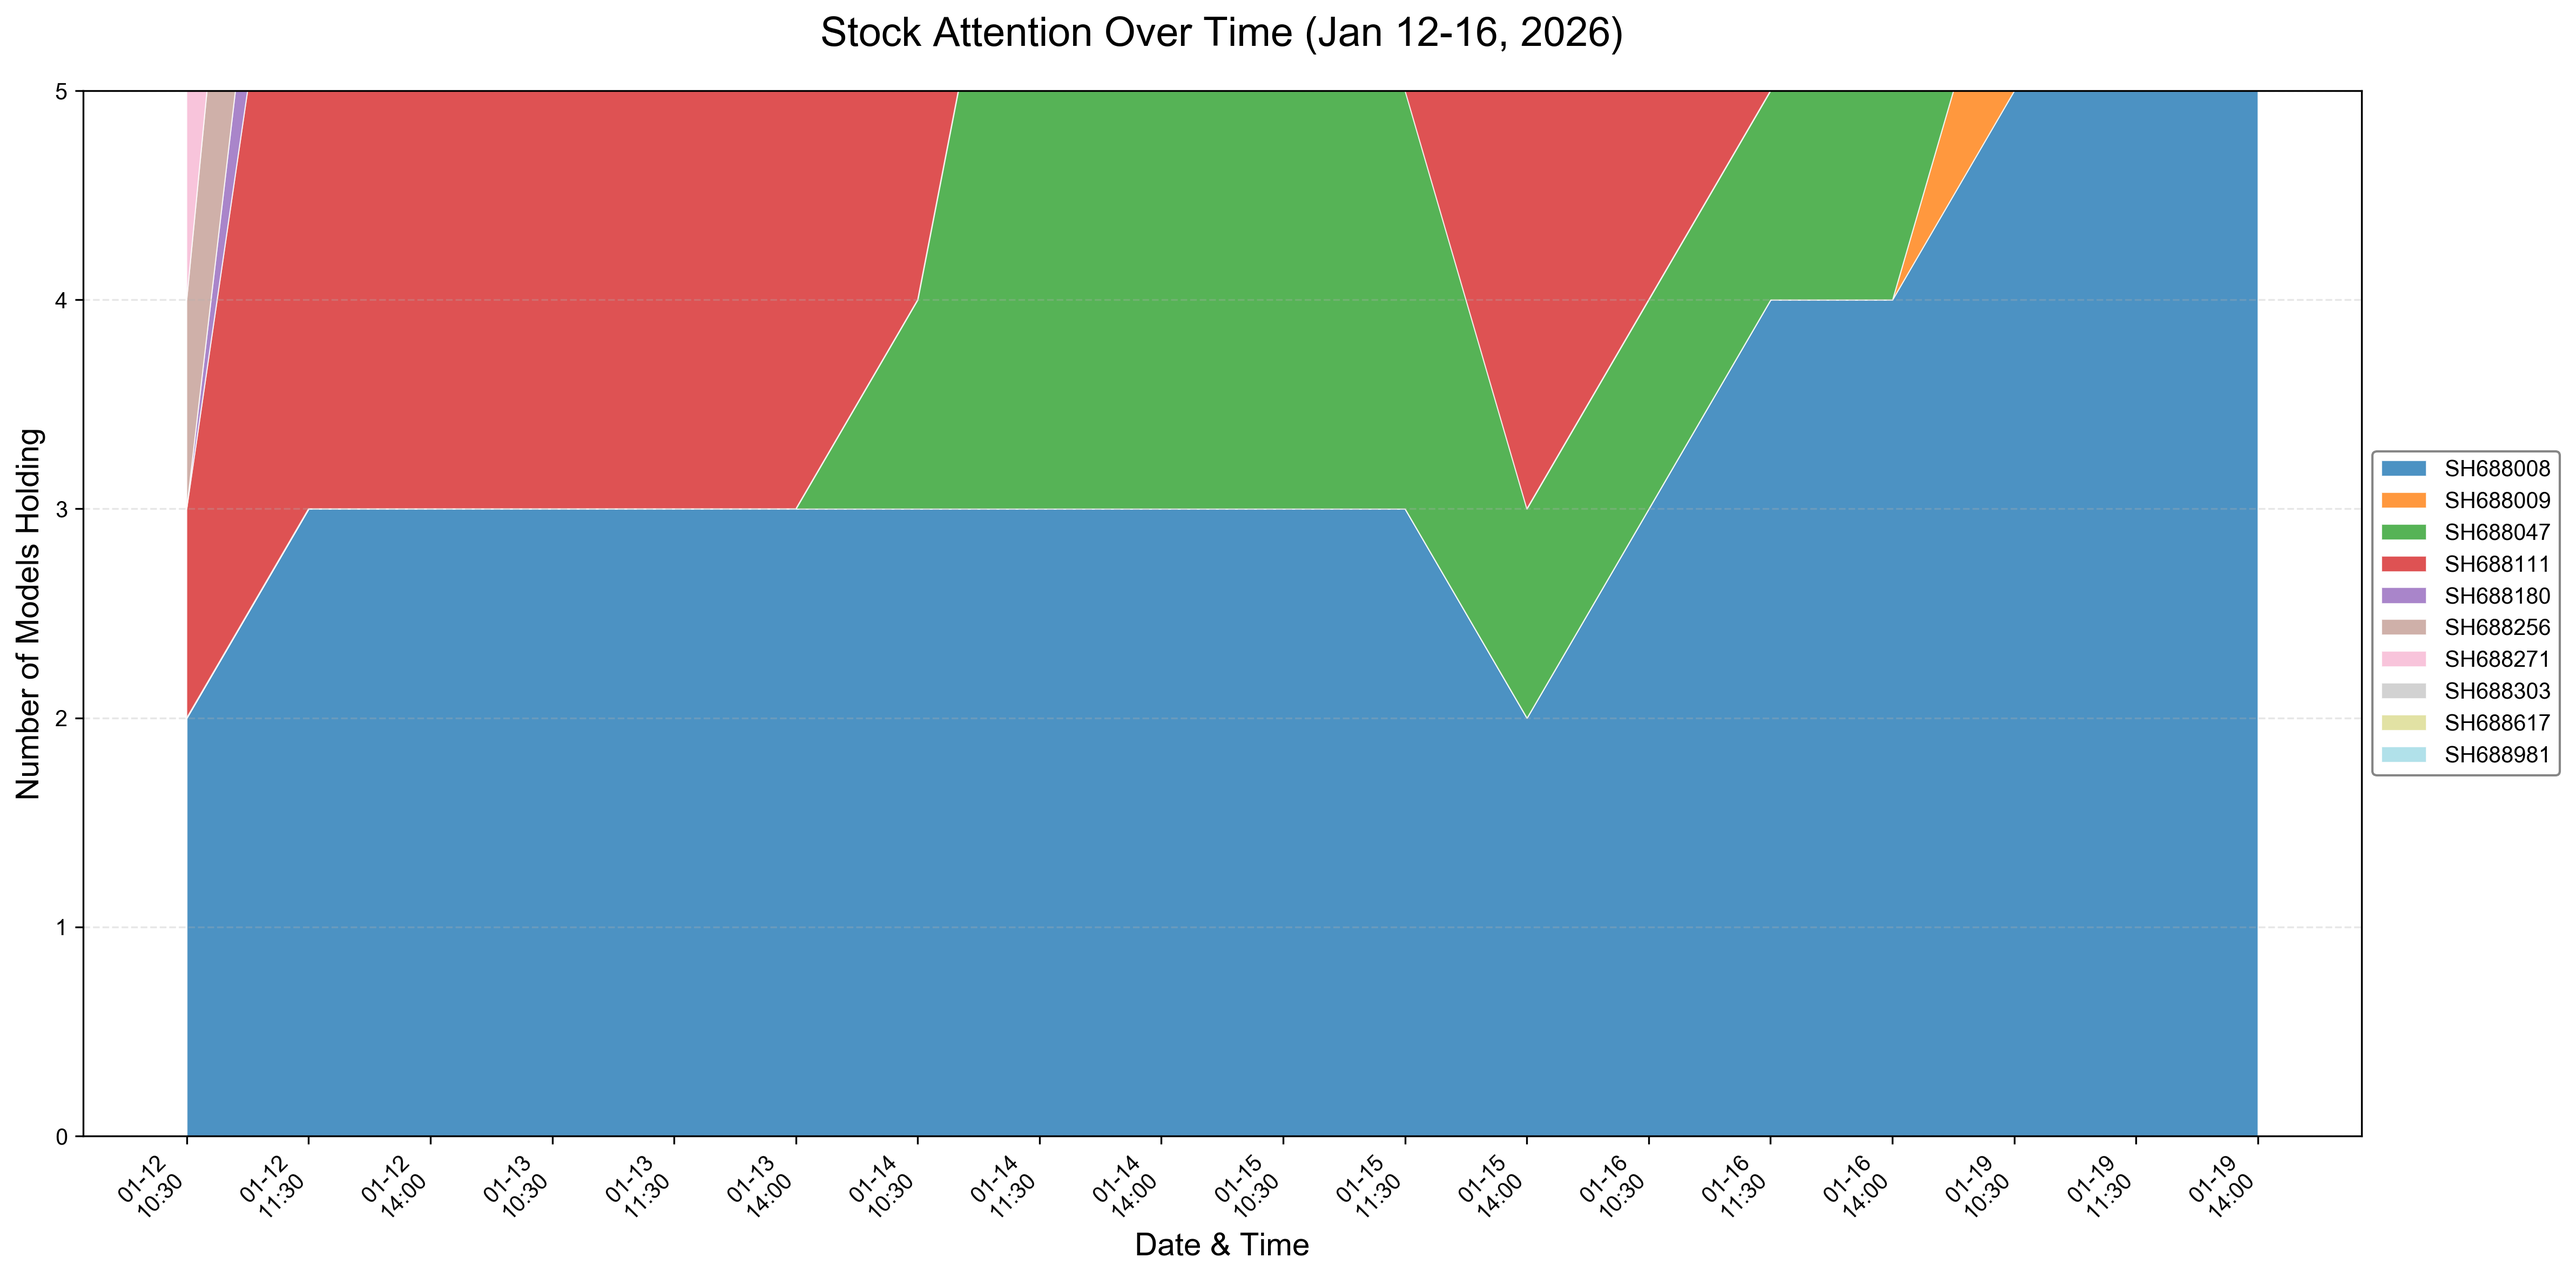
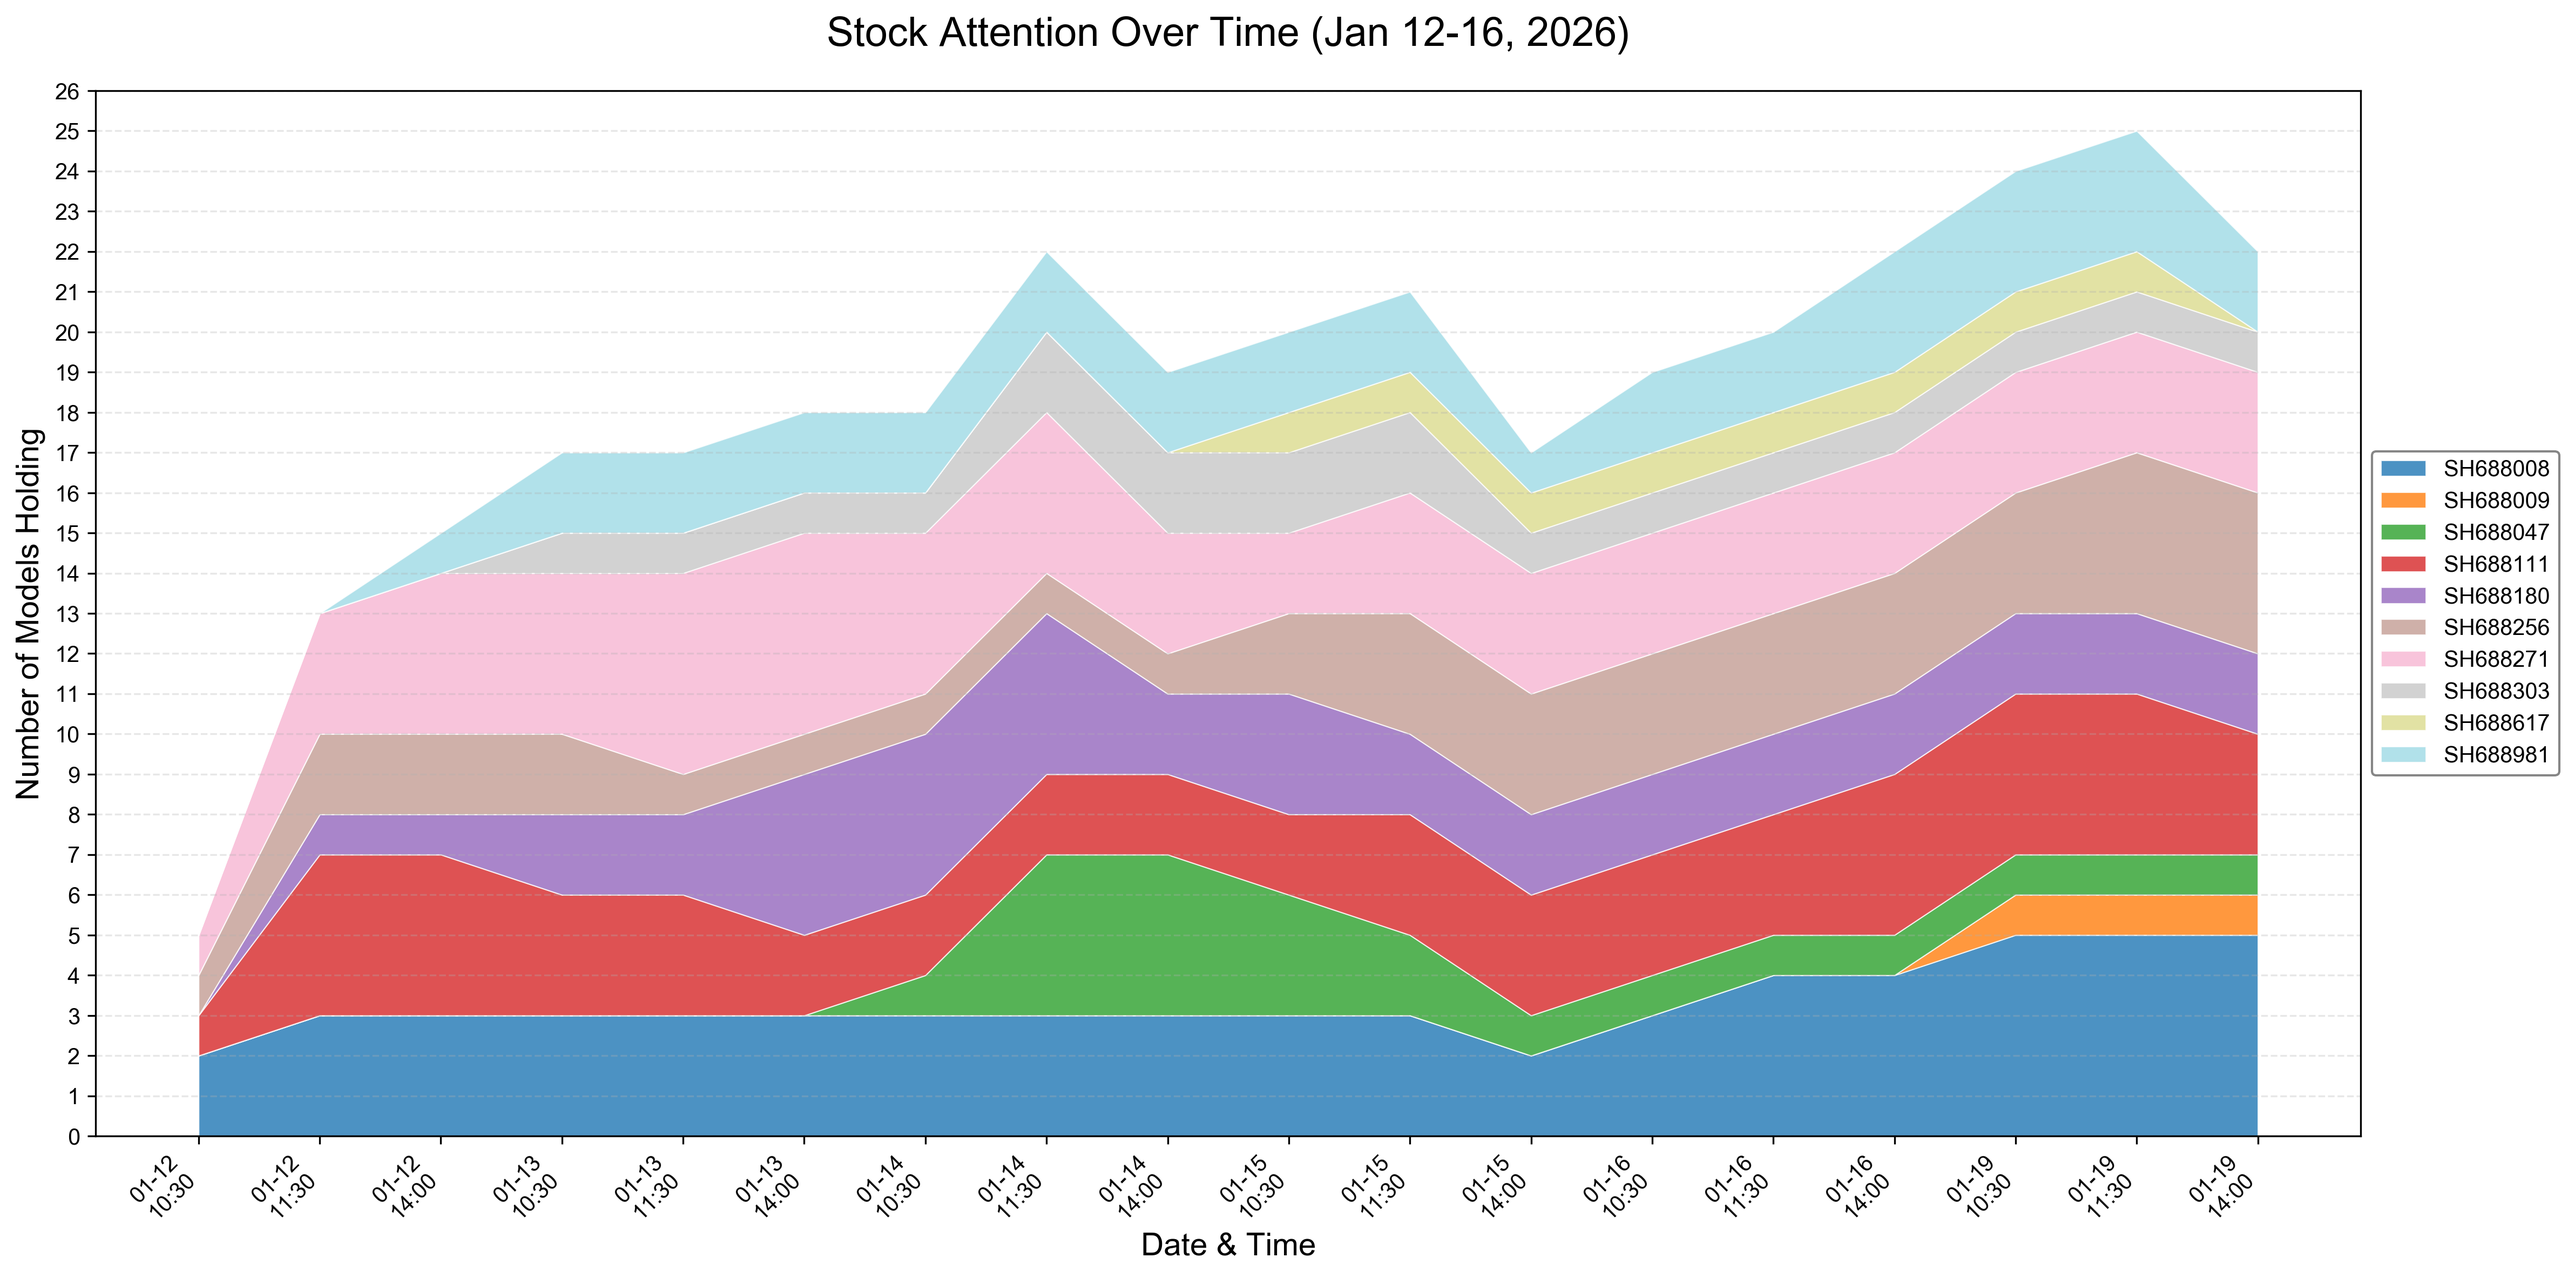
better visualize

diff --git a/experiments/visualize.py b/experiments/visualize.py
@@ -494,9 +494,16 @@ def plot_stock_attention(attention_data: Dict[datetime, Dict[str, int]]):
                 fontsize=18, fontweight='bold', pad=20)
     ax.grid(True, alpha=0.3, axis='y', linestyle='--', linewidth=0.8)
     
-    # 设置y轴上限（最多5个模型）
-    ax.set_ylim(0, 5)
-    ax.set_yticks([0, 1, 2, 3, 4, 5])
+    # 计算实际数据的最大值（每个时间点的总和）
+    max_total = 0
+    for t in times:
+        total = sum(attention_data[t].values())
+        max_total = max(max_total, total)
+    
+    # 动态设置y轴范围：使用实际最大值 + 1
+    y_max = max_total + 1
+    ax.set_ylim(0, y_max)
+    ax.set_yticks(range(0, y_max + 1))
     
     # 图例（放在右侧）
     ax.legend(loc='center left', bbox_to_anchor=(1, 0.5), fontsize=10, 
